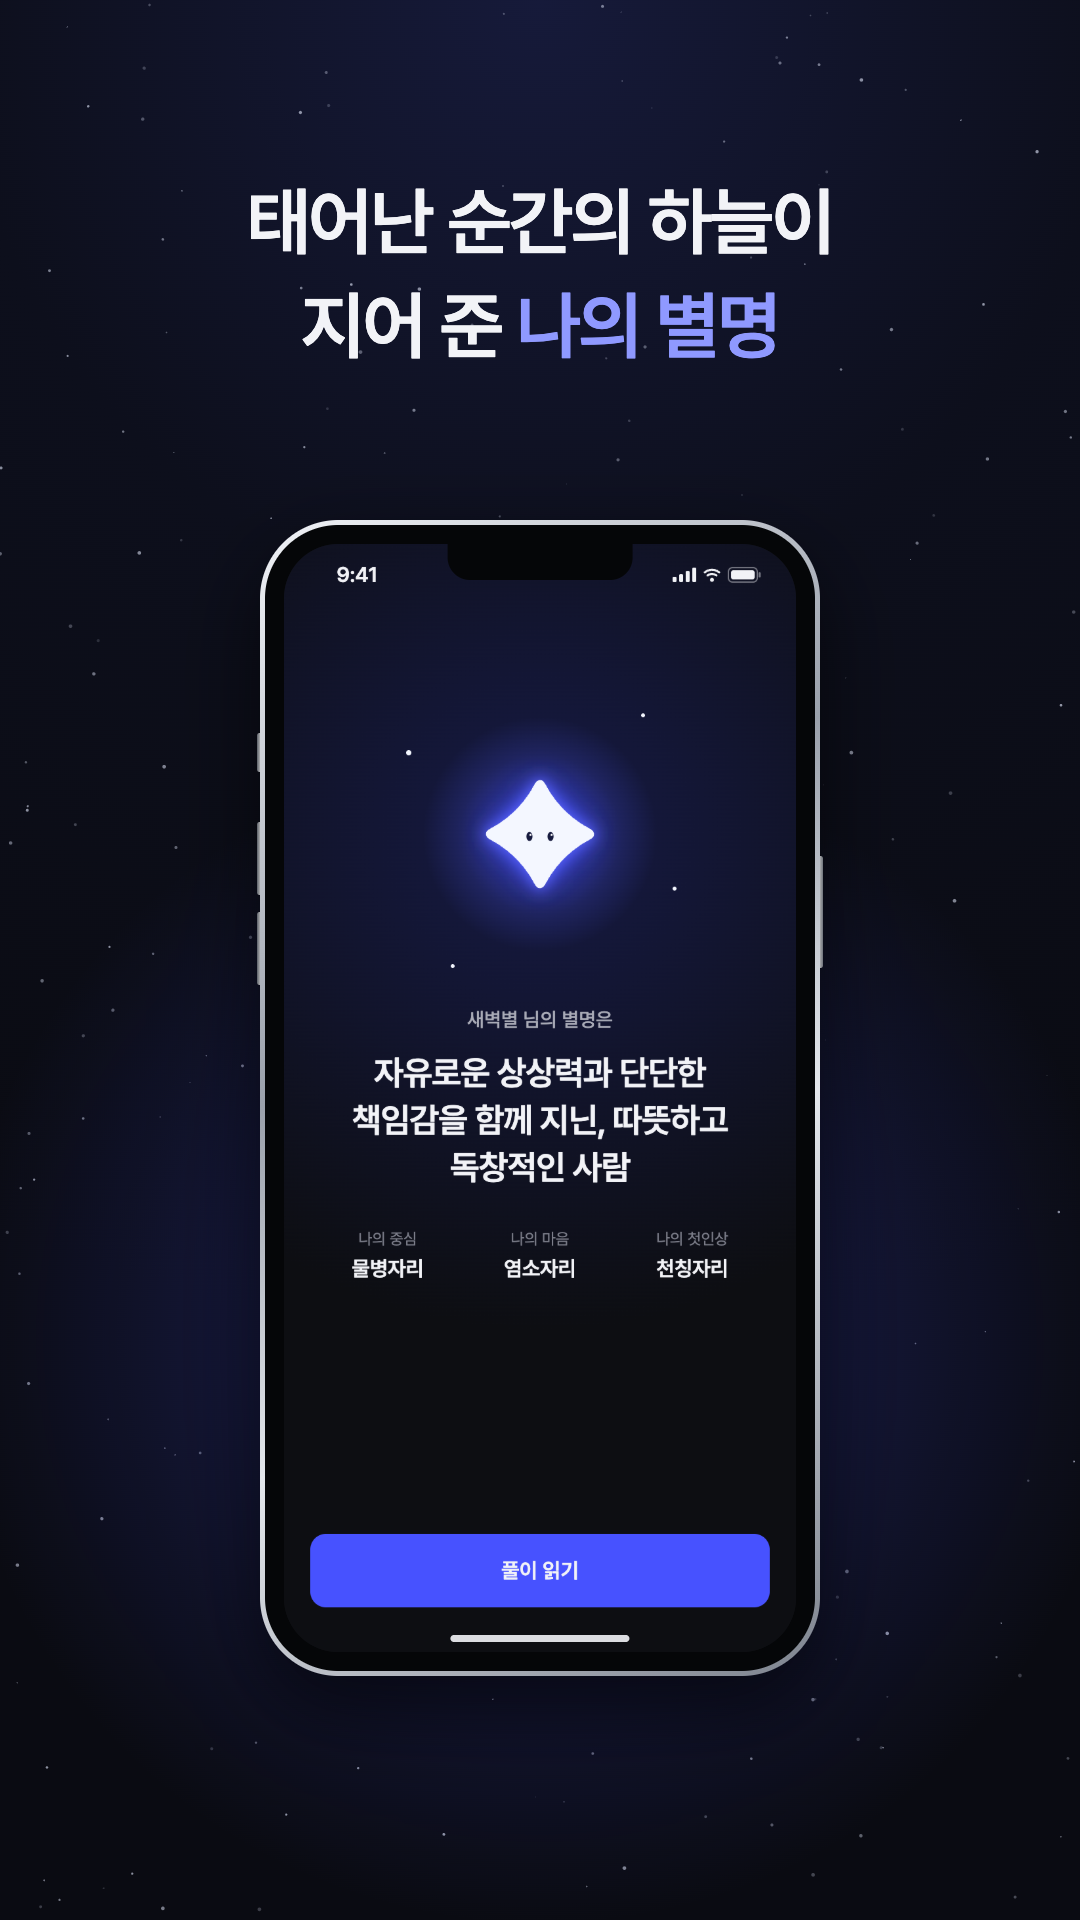
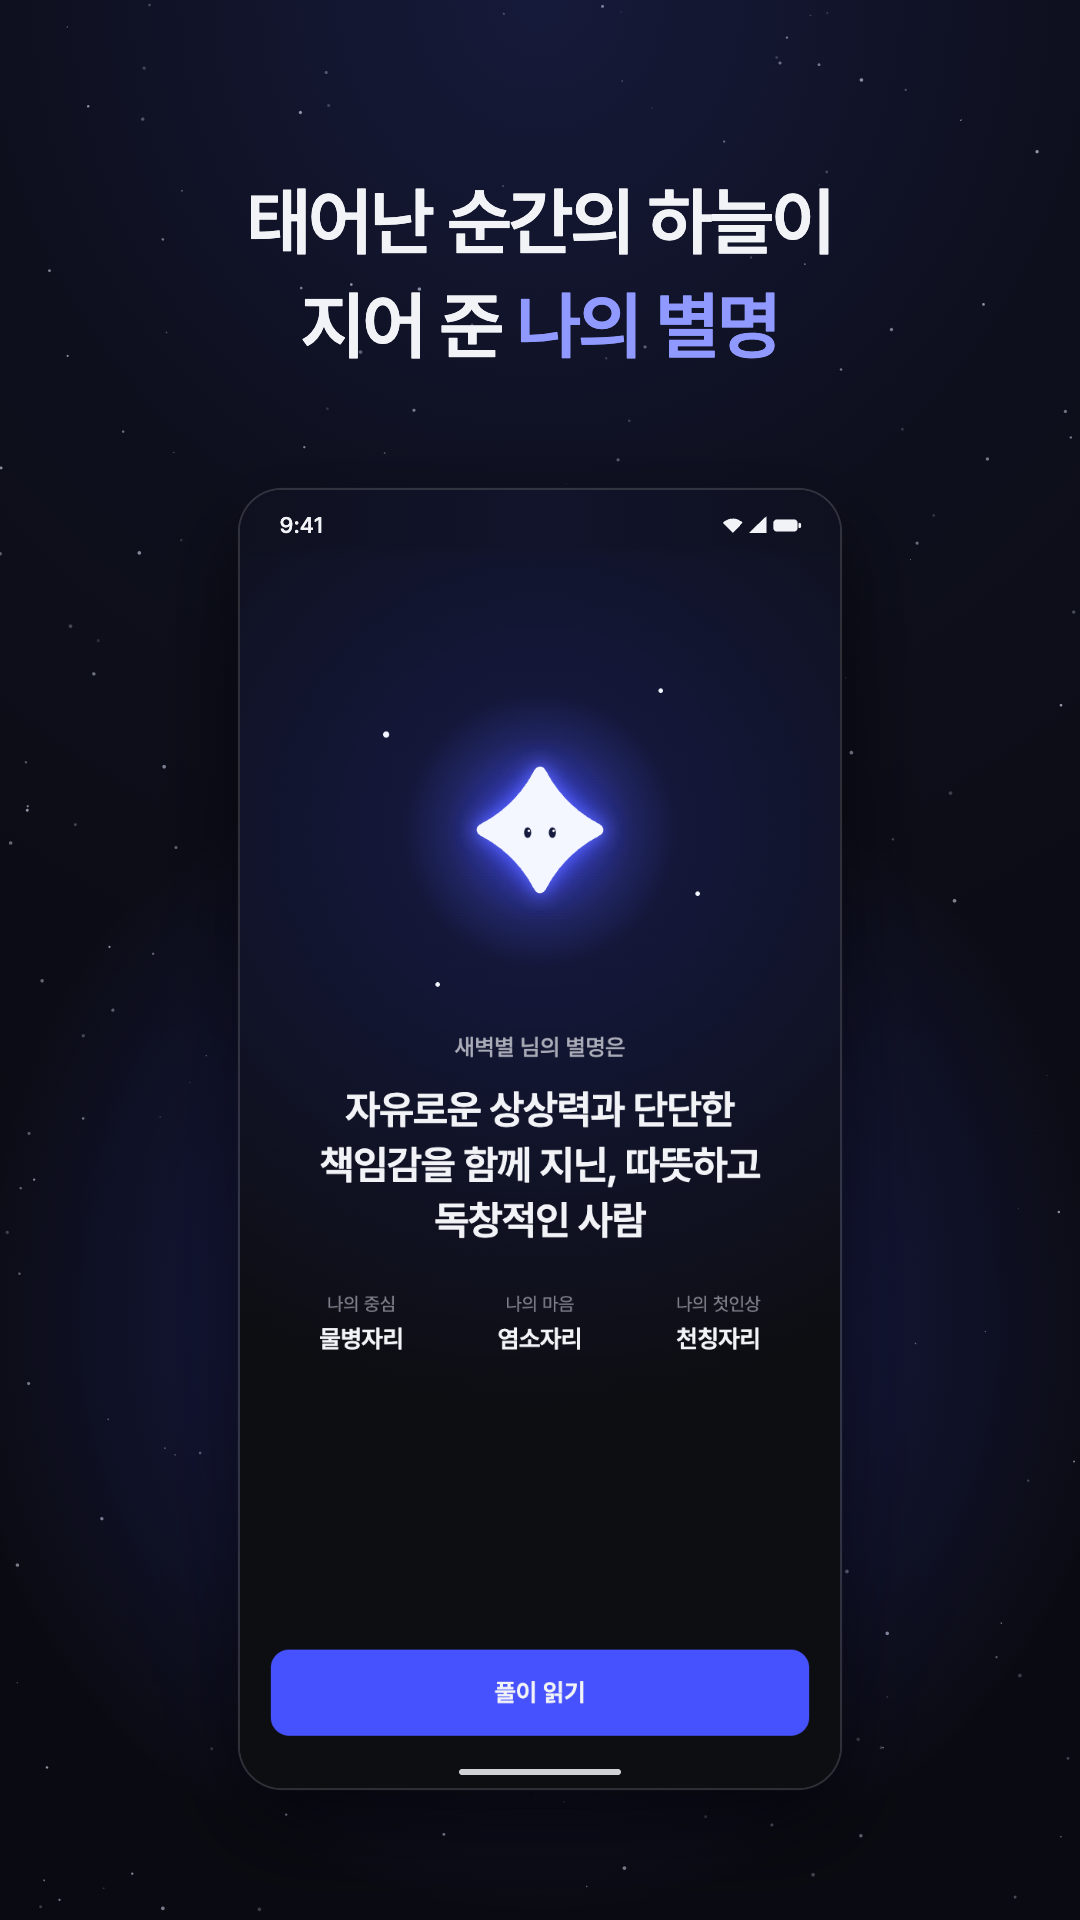
chore(store): 플레이 미리보기 8장 · 대표 그래픽을 새 화면과 안드로이드 모양으로
- 플레이(s=play · s=feature)는 아이폰 틀 대신 틀 없는 둥근 화면에 안드로이드 상태 막대(시계 왼쪽, 와이파이 · 신호 · 배터리 오른쪽)와 제스처 막대를 얹는다. 화면 그림에 박힌 iOS 상태 막대는 덮는다. 구글 미리보기 애셋 안내가 기기 그림을 피하라고 한다(answer/9866151)
- 새 디자인 화면(홈 A안 · 오늘의 하늘 · 나 · 내 하늘 지도, 249fd19)으로 플레이 01~08 · feature 를 다시 찍었다(1080×1920 · 1024×500, 알파 없음)
- 6장 제목의 띄어 쓴 가운뎃점 나열을 쉼표로("이번 달, 올해, 인생의"). 앱스토어 피그마 판과 같은 말. 같은 글을 쓰는 ios/06 도 다시 찍었다
- README 스토어 등록 이미지에 플레이 모양과 올릴 파일 위치(_shared/play-1.0.0)를 적었다

diff --git a/store/shot.html b/store/shot.html
@@ -4,7 +4,9 @@
 <meta charset="utf-8">
 <!-- 스토어 등록 이미지 원본(소유자 2026-11-20 "sou.zip 처럼"). 배포에는 넣지 않는다(.vercelignore).
      ?s=ios|play&n=1..8 은 미리보기 칸 스크린샷, ?s=feature 는 플레이 대표 그래픽. 찍는 법은 README "스토어 등록 이미지".
-     폰 모양 값은 랜딩 app/assets/css/main.css 의 .iphone 과 같다(고치면 둘 다) -->
+     폰 모양 값은 랜딩 app/assets/css/main.css 의 .iphone 과 같다(고치면 둘 다).
+     플레이(s=play · s=feature)는 아이폰 틀을 쓰지 않는다: 구글 미리보기 안내가 기기 그림을 피하라고 하고(answer/9866151), 안드로이드 사용자에게
+     노치 · 옆 단추가 있는 아이폰을 보여 주지 않으려고. 틀 없는 둥근 화면 + 안드로이드 상태 막대(시계 왼쪽, 와이파이 · 신호 · 배터리 오른쪽)로 덮는다 -->
 <link rel="stylesheet" href="https://cdn.jsdelivr.net/gh/orioncactus/pretendard@v1.3.9/dist/web/static/pretendard-dynamic-subset.min.css">
 <style>
   :root { --ink: #F2F3F7; --gray: #A9ABB7; --accent: #8F99FF; --lilac: #9AA3FF; }
@@ -30,6 +32,18 @@
   .ip-silent { left: -.6cqw; top: 38cqw; height: 7cqw; } .ip-vol1 { left: -.6cqw; top: 54cqw; height: 13cqw; }
   .ip-vol2 { left: -.6cqw; top: 70cqw; height: 13cqw; } .ip-power { right: -.6cqw; top: 60cqw; height: 20cqw; }
 
+  /* 플레이: 틀 없는 화면. 화면 그림(390×844 의 2 · 3배)에 박힌 iOS 상태 막대(위 4% 안쪽)를 안드로이드 막대로 덮는다.
+     화면 높이 = 너비 × 844/390 = 216.4cqw, 막대 높이 11.6cqw ≈ 5.4% */
+  .droid { container-type: inline-size; position: absolute; }
+  .d-scr { position: relative; aspect-ratio: 390 / 844; border-radius: 7cqw; overflow: hidden; background: #0D0E12;
+    box-shadow: 0 0 0 .35cqw rgba(242, 243, 247, .16), 0 6cqw 14cqw rgba(0, 0, 0, .6); }
+  .d-scr img { position: absolute; inset: 0; width: 100%; height: 100%; object-fit: cover; object-position: top; }
+  .d-bar { position: absolute; left: 0; right: 0; top: 0; height: 11.6cqw; display: flex; align-items: center; justify-content: space-between;
+    padding: 0 6.2cqw 0 6.6cqw; box-sizing: border-box; font-size: 3.7cqw; font-weight: 500; letter-spacing: .01em; color: #F2F3F7;
+    -webkit-mask-image: linear-gradient(#000 78%, transparent); mask-image: linear-gradient(#000 78%, transparent); }
+  .d-bar svg { height: 3.6cqw; width: auto; display: block; }
+  .d-nav { position: absolute; z-index: 2; bottom: 2.2cqw; left: 50%; transform: translateX(-50%); width: 27cqw; height: 1.1cqw; border-radius: 1cqw; background: rgba(242, 243, 247, .85); }
+
   /* 첫 장(브랜드) */
   .brand { position: absolute; left: 0; right: 0; display: flex; flex-direction: column; align-items: center; text-align: center; }
   .pill { border: .25em solid var(--lilac); color: var(--lilac); border-radius: 999px; font-weight: 600; letter-spacing: -0.01em; }
@@ -52,16 +66,21 @@ document.body.style.setProperty('--h', H + 'px')
 const shot = src => `screens/${src}.png`
 // 위 두 줄(핵심 낱말은 em) · 폰 화면. 문구는 랜딩 주요 기능과 같은 말
 // 1 장은 브랜드, 2~8 장은 아래 차례대로
+// bar: 플레이 상태 막대를 덮는 색(화면 그림의 맨 위 색과 같게). 없으면 앱 바탕 #0D0E12
+const REVEAL_BAR = 'linear-gradient(90deg, #0f1120, #11142b 50%, #0f1120)'
 const SLIDES = [
-  { t: '태어난 순간의 하늘이<br>지어 준 <em>나의 별명</em>', img: shot('reveal') },
+  { t: '태어난 순간의 하늘이<br>지어 준 <em>나의 별명</em>', img: shot('reveal'), bar: REVEAL_BAR },
   { t: '<em>매일</em> 다시 열어 보는<br>나의 하늘', img: shot('home') },
   { t: '<em>오늘의 하늘</em>로<br>하루를 가볍게 시작해요', img: shot('today-sky') },
   { t: '나를 <em>다섯 가지</em>로<br>더 자세히 읽어요', img: shot('me-personality') },
-  { t: '<em>이번 달 · 올해 · 인생</em>의<br>흐름을 한눈에', img: shot('timing-year') },
+  { t: '<em>이번 달, 올해, 인생</em>의<br>흐름을 한눈에', img: shot('timing-year') },
   { t: '태어난 순간의 하늘을<br><em>한 장의 지도</em>로', img: shot('sky-map') },
-  { t: '<em>별명 카드</em>로<br>스토리에 바로 공유해요', img: 'screens/share-sheet.png' },
+  { t: '<em>별명 카드</em>로<br>스토리에 바로 공유해요', img: 'screens/share-sheet.png', bar: '#050607' },
 ]
 const phone = (src, css) => `<div class="iphone" style="${css}"><span class="ip-btn ip-silent"></span><span class="ip-btn ip-vol1"></span><span class="ip-btn ip-vol2"></span><span class="ip-btn ip-power"></span><div class="ip-frame"><div class="scr"><img src="${src}"></div><span class="ip-notch"></span><span class="ip-home"></span></div></div>`
+// 안드로이드 상태 막대 아이콘: 와이파이(부채꼴) · 신호(삼각형) · 배터리(가로 알약)
+const DROID_ICONS = '<svg viewBox="0 0 60 16" fill="currentColor"><path d="M8 14 L.6 6.4 A10.6 10.6 0 0 1 15.4 6.4 Z"/><path d="M20 14 L33 1.5 V14 Z"/><rect x="38" y="4" width="18" height="9" rx="2.6"/><rect x="56.6" y="6.6" width="2" height="3.8" rx="1"/></svg>'
+const droid = (src, css, bar = '#0D0E12') => `<div class="droid" style="${css}"><div class="d-scr"><img src="${src}"><div class="d-bar" style="background:${bar}"><span>9:41</span>${DROID_ICONS}</div><span class="d-nav"></span></div></div>`
 const root = document.getElementById('root')
 
 // 별 점: 같은 씨앗이라 다시 찍어도 같은 하늘
@@ -81,8 +100,8 @@ if (kind === 'feature') {
     <div style="margin-top:12px;font-size:50px;line-height:64px;font-weight:600;letter-spacing:-0.03em">점성술을 몰라도<br>읽히는 나의 별명</div>
     <span style="margin-top:26px;display:inline-flex;align-items:center;gap:10px;font-size:24px;font-weight:600;color:#C8CAD3"><img src="../public/brand/byeoli.svg" style="width:30px;height:30px">별명</span>
   </div>
-  ${phone(shot('reveal'), 'left:596px;top:84px;width:196px;opacity:.92')}
-  ${phone(shot('home'), 'left:770px;top:34px;width:208px')}`
+  ${droid(shot('reveal'), 'left:604px;top:92px;width:184px;opacity:.92', REVEAL_BAR)}
+  ${droid(shot('home'), 'left:776px;top:40px;width:196px')}`
 } else if (n === 1) {
   // 첫 장: 꼬리표 · 큰 이름 · 별이 (sou.zip 첫 장처럼)
   const s = W / 1290
@@ -98,10 +117,11 @@ if (kind === 'feature') {
   const sl = SLIDES[n - 2]
   const ios = kind === 'ios'
   const font = ios ? 96 : 74, lh = ios ? 136 : 104, top = ios ? 280 : 170
-  const pw = ios ? 860 : 560, ptop = ios ? 760 : 520
+  const pw = ios ? 860 : 600, ptop = ios ? 760 : 490
+  const where = `left:${(W - pw) / 2}px;top:${ptop}px;width:${pw}px`
   root.innerHTML = `<div class="glow" style="width:${W * 1.1}px;height:${W * 1.1}px;left:${-W * .05}px;top:${ptop + pw * .4}px;opacity:.7"></div>
   <div class="cap" style="top:${top}px"><h1 style="font-size:${font}px;line-height:${lh}px">${sl.t}</h1></div>
-  ${phone(sl.img, `left:${(W - pw) / 2}px;top:${ptop}px;width:${pw}px`)}`
+  ${ios ? phone(sl.img, where) : droid(sl.img, where, sl.bar)}`
 }
 </script>
 </body>

diff --git a/README.md b/README.md
@@ -31,6 +31,8 @@
 ## 스토어 등록 이미지
 - `store/out/ios/01~08.png`(1290×2796 원본 — **App Store Connect 에는 1179×2556 으로 줄여 올린다**, 아래) · `store/out/play/01~08.png`(1080×1920, 플레이 휴대폰) · `store/out/play/feature.png`(1024×500, 플레이 대표 그래픽). 앱스토어 · 플레이스토어 앱 페이지의 "미리보기" 칸에 올린다. 아이패드는 앱이 지원하지 않아 없다
 - 원본은 `store/shot.html`(sou.zip 스토어 이미지처럼: 위 두 줄 제목 + 실제 아이폰 모양 + 별 하늘. 1 장은 브랜드). 폰 화면은 `store/screens/*.png`(캔버스 앱 보드를 2배로 찍은 것)
+- **플레이는 아이폰 틀을 쓰지 않는다**: 틀 없는 둥근 화면에 안드로이드 상태 막대(시계 왼쪽 · 와이파이 · 신호 · 배터리 오른쪽)와 아래 제스처 막대를 얹는다. 화면 그림에 박힌 iOS 상태 막대(9:41 · 아이폰 배터리)는 그 막대로 덮는다(덮는 색은 `SLIDES` 의 `bar`, 없으면 앱 바탕 #0D0E12). 구글 [미리보기 애셋 안내](https://support.google.com/googleplay/android-developer/answer/9866151)가 기기 그림을 피하라고 하고, 안드로이드 사용자에게 노치 있는 아이폰을 보여 주지 않으려고(2026-11-27). 제목 줄은 그림의 20% 안(지금 약 11%), "최고 · 1위 · 지금 받기" 같은 말은 넣지 않는다
+- 플레이 콘솔에 올리는 파일(알파 없는 1080×1920 PNG 8장 · 대표 그래픽 · 512 아이콘)은 저장소 밖 `_shared/play-1.0.0/` 에 둔다
 - **앱스토어 올리는 크기(2026-11 기준)**: App Store Connect 의 iPhone 필수 칸은 "Dynamic Island 지원 iPhone(중형 디스플레이)"이고 1179×2556 · 1206×2622 만 받는다. 1290×2796(옛 6.9형)은 "파일 크기가 유효하지 않습니다"로 거절된다(대형 칸은 선택이라 기본 화면에 없다). 찍은 뒤 `sips -z 2556 1179 -s format jpeg -s formatOptions 95 store/out/ios/0N.png --out 0N.jpg` 로 줄인다 — 비율이 거의 같아 잘리지 않는다. 올리기 전에 [스크린숏 규격](https://developer.apple.com/help/app-store-connect/reference/app-information/screenshot-specifications/)에서 필수 칸 크기를 다시 본다
 - 다시 찍기: 저장소 맨 위에서 `python3 -m http.server 47817` 을 띄우고 `"/Applications/Google Chrome.app/Contents/MacOS/Google Chrome" --headless=new --hide-scrollbars --window-size=1290,2796 --virtual-time-budget=6000 --screenshot="$PWD/store/out/ios/02.png" "http://127.0.0.1:47817/store/shot.html?s=ios&n=2"` (플레이는 `--window-size=1080,1920` · `s=play`, 대표 그래픽은 `--window-size=1024,500` · `s=feature`)
 - `store/` 는 배포에 넣지 않는다(`.vercelignore`)
